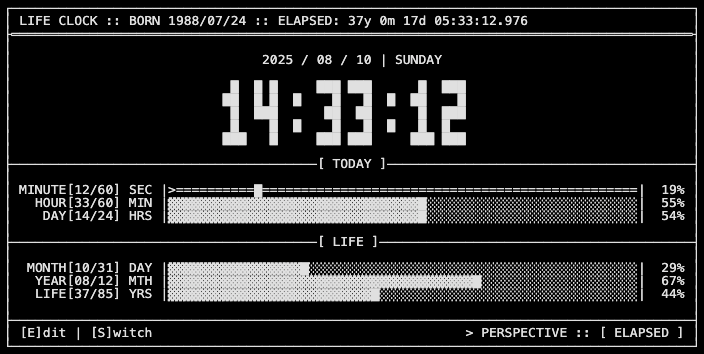
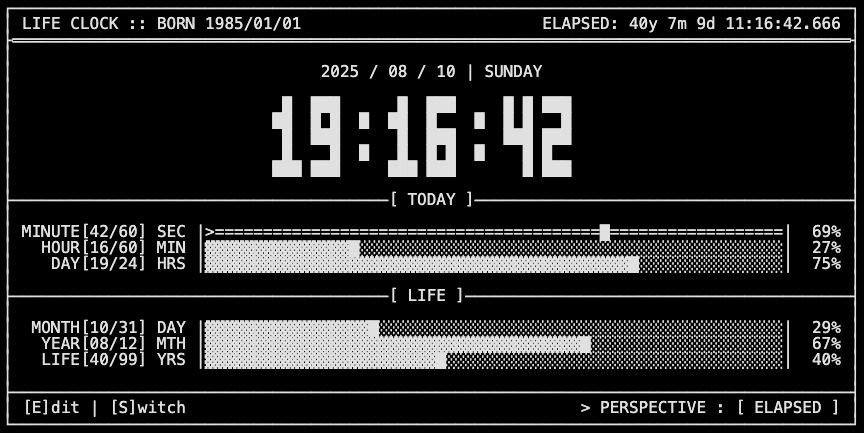
fix: add clsx dependency and update button styles for development environment

Changed region(s): [[0.0, 0.0, 1.0, 0.9944]]

diff --git a/src/components/LifeClock.tsx b/src/components/LifeClock.tsx
@@ -6,6 +6,7 @@ import { render } from "@/lib/renderer";
 import { useMemo, useEffect, useRef } from "react";
 import { getOverlayContent, FieldRect, ButtonRect } from "@/lib/overlay";
 import { useTheme } from "@/contexts/ThemeContext";
+import clsx from "clsx";
 
 export default function LifeClock() {
   const { state, actions } = useLifeMonitorState();
@@ -133,9 +134,12 @@ export default function LifeClock() {
         {state.isEditing && confirmButtonRectRef.current && charSizeRef.current.width > 0 && (
           <button
             onClick={actions.handleConfirm}
-            className="absolute focus:outline-none hover:bg-white/10 transition-colors rounded-sm"
+            className={clsx(
+              "absolute focus:outline-none hover:bg-white/10 transition-colors rounded-sm",
+              process.env.NODE_ENV === 'development' && 'bg-yellow-500/50'
+            )}
             style={{
-              top: `${(confirmButtonRectRef.current.y * charSizeRef.current.height) - 12}px`,
+              top: `${(confirmButtonRectRef.current.y * charSizeRef.current.height) - 16}px`,
               left: `${confirmButtonRectRef.current.x * charSizeRef.current.width}px`,
               width: `${confirmButtonRectRef.current.width * charSizeRef.current.width}px`,
               height: `${confirmButtonRectRef.current.height * charSizeRef.current.height}px`,
@@ -145,9 +149,12 @@ export default function LifeClock() {
         {state.isEditing && cancelButtonRectRef.current && charSizeRef.current.width > 0 && (
           <button
             onClick={actions.handleCancel}
-            className="absolute focus:outline-none hover:bg-white/10 transition-colors rounded-sm"
+            className={clsx(
+              "absolute focus:outline-none hover:bg-white/10 transition-colors rounded-sm",
+              process.env.NODE_ENV === 'development' && 'bg-red-500/50'
+            )}
             style={{
-              top: `${(cancelButtonRectRef.current.y * charSizeRef.current.height) - 12}px`,
+              top: `${(cancelButtonRectRef.current.y * charSizeRef.current.height) - 16}px`,
               left: `${cancelButtonRectRef.current.x * charSizeRef.current.width}px`,
               width: `${cancelButtonRectRef.current.width * charSizeRef.current.width}px`,
               height: `${cancelButtonRectRef.current.height * charSizeRef.current.height}px`,
@@ -157,7 +164,10 @@ export default function LifeClock() {
         {!state.isEditing && editButtonRectRef.current && charSizeRef.current.width > 0 && (
           <button
             onClick={() => actions.setIsEditing(true)}
-            className="absolute focus:outline-none hover:bg-white/10 transition-colors rounded-sm"
+            className={clsx(
+              "absolute focus:outline-none hover:bg-white/10 transition-colors rounded-sm",
+              process.env.NODE_ENV === 'development' && 'bg-blue-500/50'
+            )}
             style={{
               top: `${(editButtonRectRef.current.y * charSizeRef.current.height)}px`,
               left: `${editButtonRectRef.current.x * charSizeRef.current.width}px`,
@@ -169,7 +179,10 @@ export default function LifeClock() {
         {!state.isEditing && switchButtonRectRef.current && charSizeRef.current.width > 0 && (
           <button
             onClick={() => actions.togglePerspective()}
-            className="absolute focus:outline-none hover:bg-white/10 transition-colors rounded-sm"
+            className={clsx(
+              "absolute focus:outline-none hover:bg-white/10 transition-colors rounded-sm",
+              process.env.NODE_ENV === 'development' && 'bg-green-500/50'
+            )}
             style={{
               top: `${(switchButtonRectRef.current.y * charSizeRef.current.height)}px`,
               left: `${switchButtonRectRef.current.x * charSizeRef.current.width}px`,

diff --git a/src/lib/renderer.ts b/src/lib/renderer.ts
@@ -33,8 +33,12 @@ function drawHeader(buffer: string[], state: LifeMonitorState, timeState: TimeSt
         metric = `REMAINING: ${formatDuration(derived.remaining, true, 999 - milliseconds)}`;
     }
     
-    const headerText = `LIFE CLOCK :: ${anchor} :: ${metric}`;
-    writeToBuffer(buffer, 1, 2, headerText.padEnd(WIDTH - 4));
+    const leftPart = `LIFE CLOCK :: ${anchor}  `;
+    const rightPart = metric;
+    const totalWidth = WIDTH - 4;
+    const padding = totalWidth - leftPart.length - rightPart.length;
+    const headerText = `${leftPart}${' '.repeat(padding > 0 ? padding : 0)}${rightPart}`;
+    writeToBuffer(buffer, 1, 2, headerText);
 }
 
 function drawDateAndClock(buffer: string[], timeState: TimeState) {
@@ -226,7 +230,7 @@ function drawProgressBars(buffer: string[], state: LifeMonitorState, timeState: 
 
 function drawFooter(buffer: string[], state: LifeMonitorState) {
     const controls = "[E]dit | [S]witch";
-    const perspectiveStr = `> PERSPECTIVE :: [ ${state.perspective} ]`;
+    const perspectiveStr = `> PERSPECTIVE : [ ${state.perspective} ]`;
     const padding = WIDTH - 2 - 2 - controls.length - perspectiveStr.length;
     const footerText = `${controls}${" ".repeat(padding)}${perspectiveStr}`;
     writeToBuffer(buffer, 25, 2, footerText);

diff --git a/src/app/globals.css b/src/app/globals.css
@@ -51,6 +51,7 @@ body {
   font-family: var(--font-mono);
   transition: background 0.3s ease, color 0.3s ease;
   line-height: 1;
+  min-width: 860px;
 }
 
 *,
